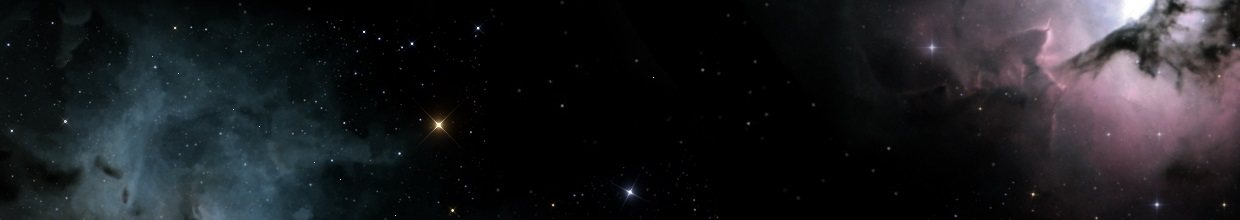
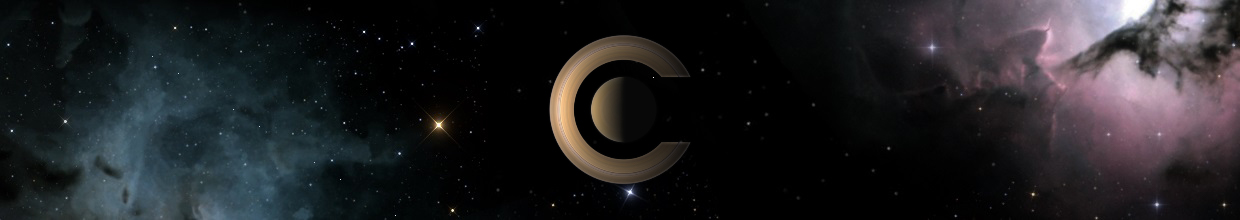
Changed header style
... Added forum name & description

Changed region(s): [[0.429, 0.1636, 0.5516, 0.8455]]

diff --git a/styles/hexagon/template/navbar_bread.html b/styles/hexagon/template/navbar_bread.html
@@ -15,17 +15,17 @@
 		</li>
 		<!-- EVENT overall_header_breadcrumbs_after -->
 <!-- EVENT overall_header_searchbox_before -->
-			<!-- IF S_DISPLAY_SEARCH and not S_IN_SEARCH -->
-			<li id="search-box" class="search-box search-header">
-				<form action="{U_SEARCH}" method="get" id="search">
-				<fieldset>
-					<input name="keywords" id="keywords" type="search" maxlength="128" title="{L_SEARCH_KEYWORDS}" class="inputbox search tiny" size="20" value="{SEARCH_WORDS}" placeholder="{L_SEARCH_MINI}" />
-					<button class="button icon-button search-icon" type="submit" title="{L_SEARCH}">{L_SEARCH}</button>
-					<a href="{U_SEARCH}" class="button icon-button search-adv-icon" title="{L_SEARCH_ADV}">{L_SEARCH_ADV}</a>
-					{S_SEARCH_HIDDEN_FIELDS}
-				</fieldset>
-				</form>
-			</li>
-			<!-- ENDIF -->
+			<!-- IF not S_TOP_LINKS and S_DISPLAY_SEARCH and not S_IN_SEARCH -->
+			<div id="search-box" class="search-box search-header" role="search">
+					<form action="{U_SEARCH}" method="get" id="search">
+					<fieldset>
+						<input name="keywords" id="keywords" type="search" maxlength="128" title="{L_SEARCH_KEYWORDS}" class="inputbox search tiny" size="20" value="{SEARCH_WORDS}" placeholder="{L_SEARCH_MINI}" />
+						<button class="button icon-button search-icon" type="submit" title="{L_SEARCH}">{L_SEARCH}</button>
+						<a href="{U_SEARCH}" class="button icon-button search-adv-icon" title="{L_SEARCH_ADV}">{L_SEARCH_ADV}</a>
+						{S_SEARCH_HIDDEN_FIELDS}
+					</fieldset>
+					</form>
+				</div>
+				<!-- ENDIF -->
 
 	</ul>

diff --git a/styles/hexagon/template/overall_header.html b/styles/hexagon/template/overall_header.html
@@ -82,13 +82,13 @@
 		<div class="headerbar" role="banner">
 		<!-- EVENT overall_header_headerbar_before -->
 			<div class="inner">
-
-						<div id="site-description">
-				<p class="skiplink"><a href="#start_here">{L_SKIP}</a></p>
-				<a id="logo" href="<!-- IF U_SITE_HOME -->{U_SITE_HOME}<!-- ELSE -->{U_INDEX}<!-- ENDIF -->" title="{SITE_DESCRIPTION}">{SITE_LOGO_IMG}</a>
-				<h1>{SITENAME}</h1>
-				<p class="site-des">{SITE_DESCRIPTION}</p>
-			
+				<div id="site-description">
+					
+					<p class="skiplink"><a href="#start_here">{L_SKIP}</a></p>
+					<div class="header_logo"><img src="{T_THEME_PATH}/images/banner.jpg" width="100%" alt="{SITENAME}"></div>
+					<div class="header_desc"><a id="logo" href="<!-- IF U_SITE_HOME -->{U_SITE_HOME}<!-- ELSE -->{U_INDEX}<!-- ENDIF -->" title="{SITE_DESCRIPTION}"><h1>{SITENAME}</h1></a>
+					<p class="site-des">{SITE_DESCRIPTION}</p></div>
+				<div>
 			</div>
 
 		

diff --git a/styles/hexagon/theme/imageset.css b/styles/hexagon/theme/imageset.css
@@ -12,10 +12,10 @@ span.imageset {
 /* Global imageset items */
 .imageset.site_logo {
     background-image: url(./images/logo.png);
-    padding-left: 500px;
-    padding-top: 175px;
-    margin-top: 20px;
-	float: right;
+    padding-left: 150px;
+    padding-top: 150px;
+	margin-top: 30px;
+	margin-bottom: 45px;
 }
 .imageset.forum_link {
 	background-image: url("./images/forum_link.gif");
@@ -316,6 +316,7 @@ span.imageset {
 	background-image: url("./images/icon_post_target.png");
 	padding-left: 16px;
 	padding-top: 16px;
+	margin-right: 5px;
 }
 .imageset.icon_post_target_unread {
 	background-image: url("./images/icon_post_target_unread.png");
